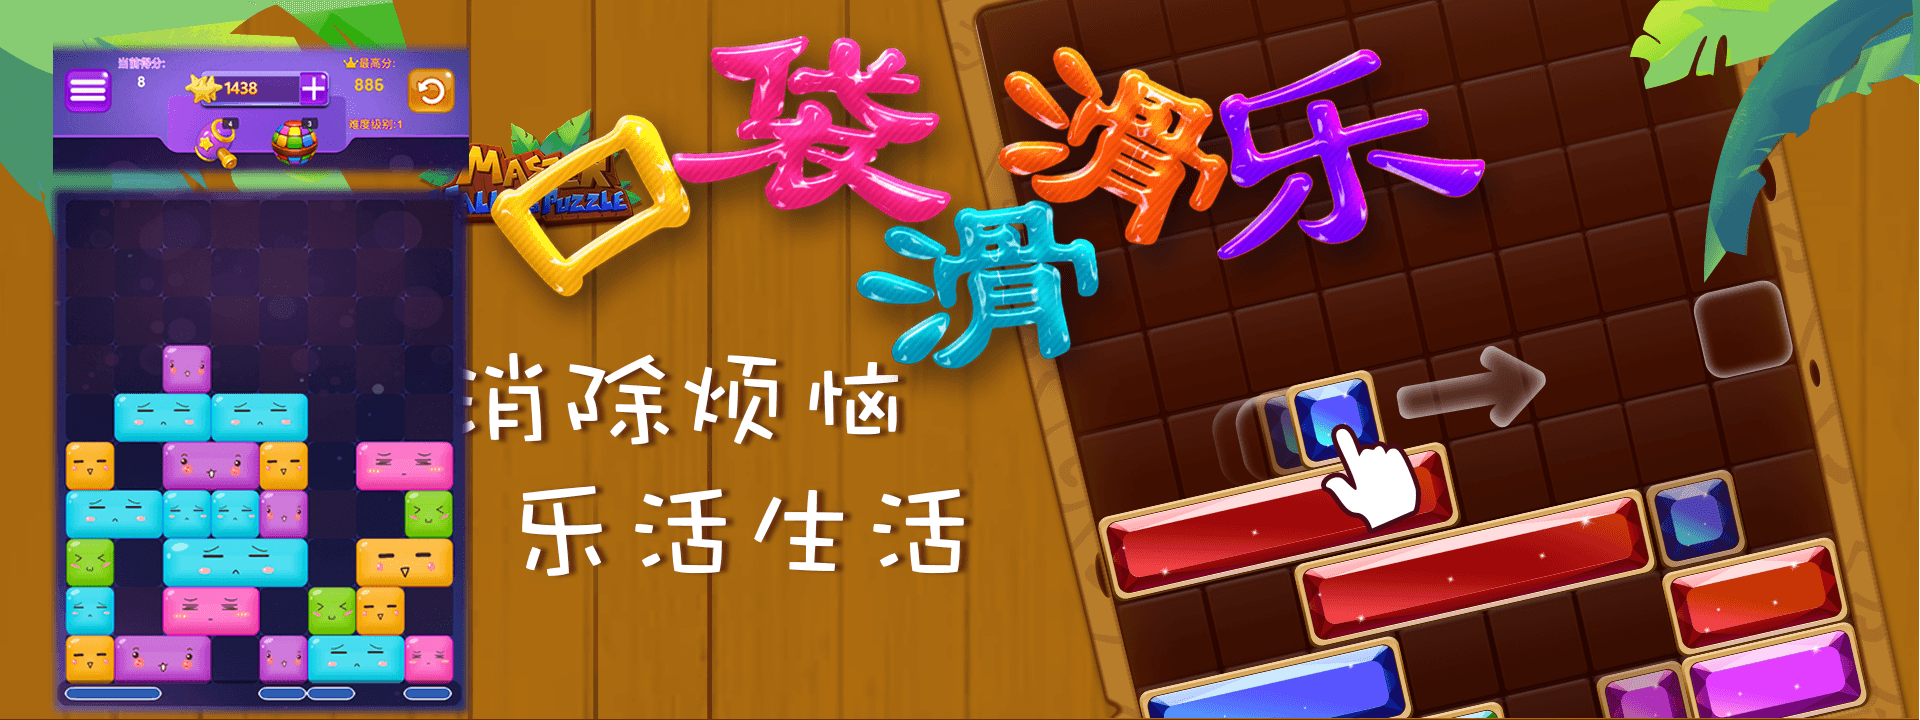
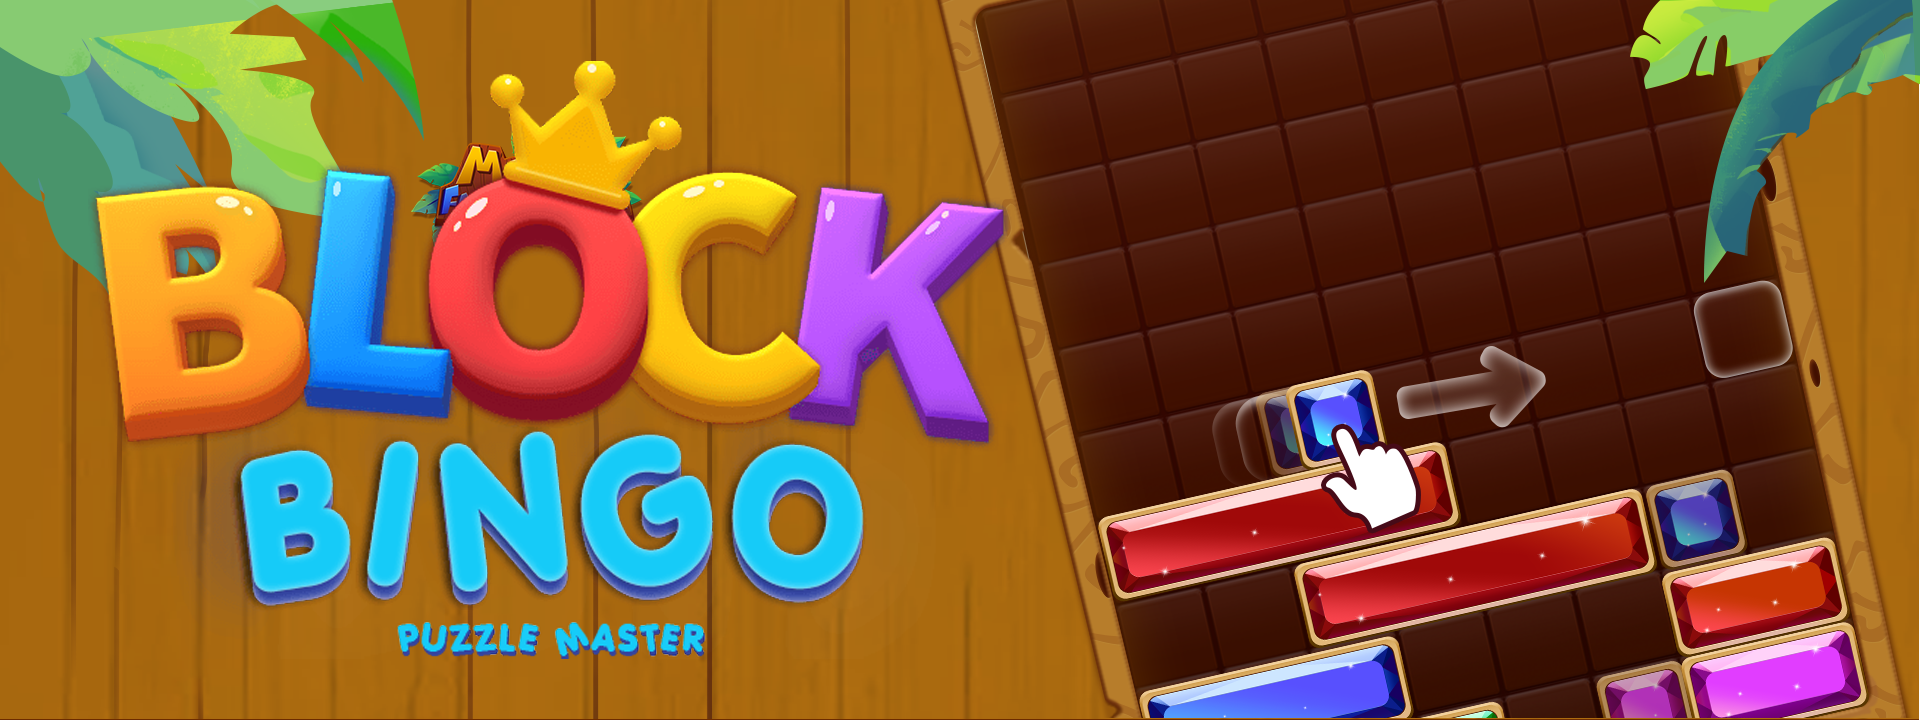
update web

diff --git a/index.html b/index.html
@@ -70,11 +70,11 @@
           <img src="./public/images/banner2.png" alt="" />
         </li>
         <li>
-          <img src="./public/images/banner3.png" alt="" />
+          <img src="./public/images/banner4.png" alt="" />
         </li>
-        <li>
+        <!-- <li>
           <img src="./public/images/banner1.png" alt="" />
-        </li>
+        </li> -->
       </ul>
     </div>
     <!-- //Slider -->
